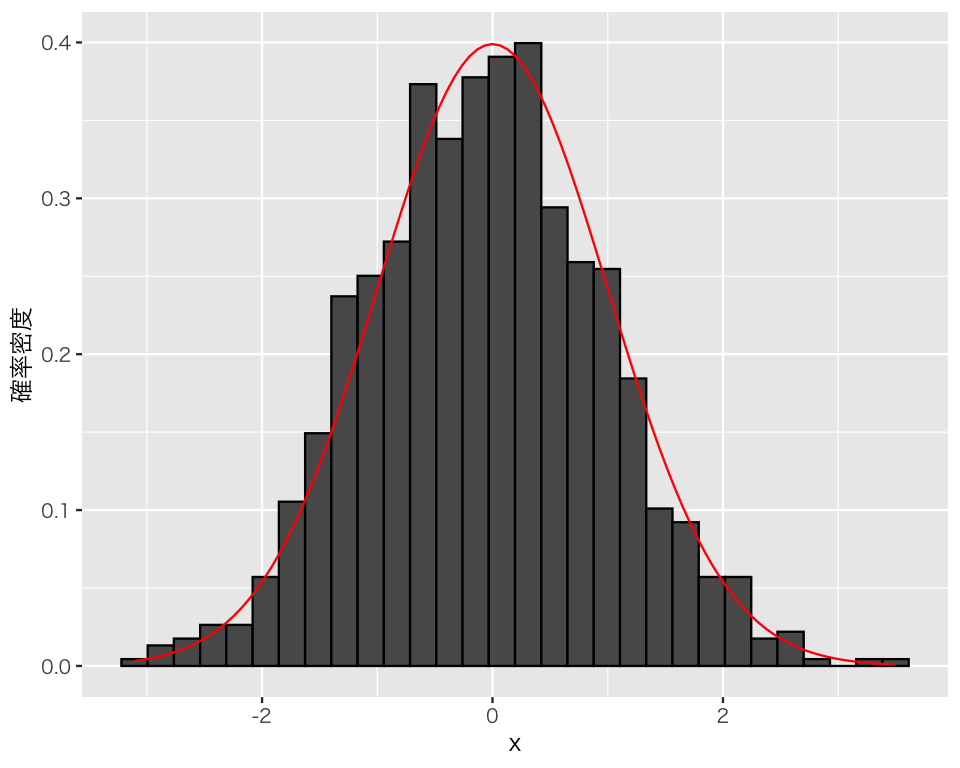
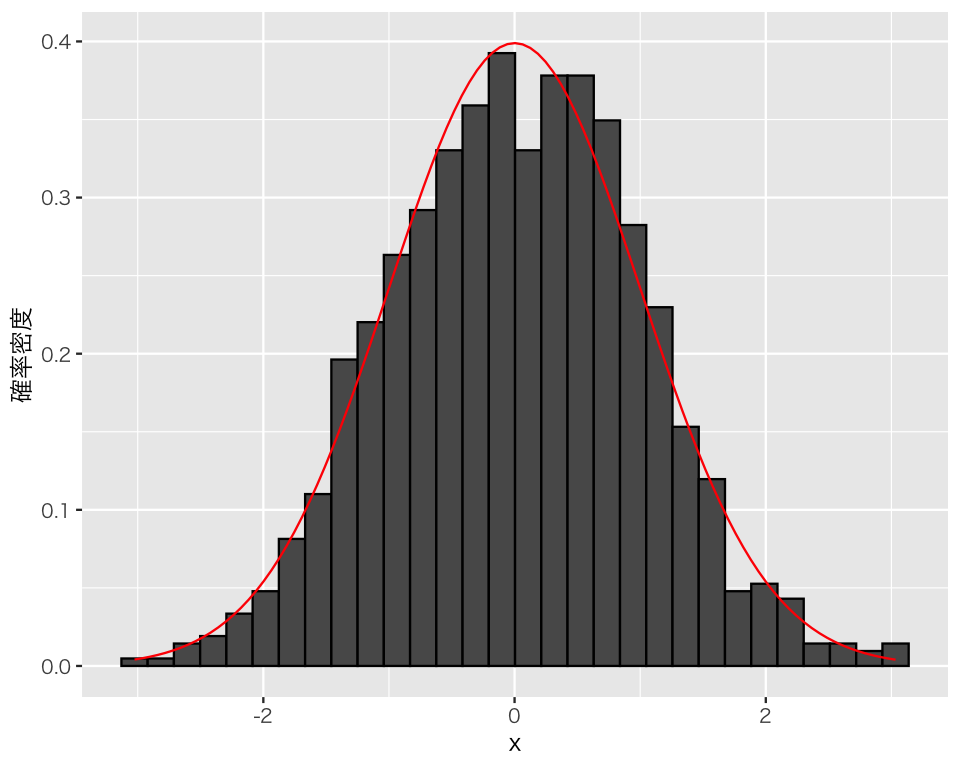
update kut_stat1 for ay2026

diff --git a/docs/stat-dist.html b/docs/stat-dist.html
@@ -333,7 +333,7 @@ X \sim \mbox{Bernoulli}(\theta)
 <div class="cell">
 <div class="sourceCode" id="cb7"><pre class="downlit sourceCode r code-with-copy"><code class="sourceCode R"><span><span class="fu"><a href="https://rdrr.io/r/base/mean.html">mean</a></span><span class="op">(</span><span class="va">x_1</span><span class="op">)</span></span></code><button title="コピーする" class="code-copy-button"><i class="bi"></i></button></pre></div>
 <div class="cell-output cell-output-stdout">
-<pre><code>[1] 0.71</code></pre>
+<pre><code>[1] 0.7</code></pre>
 </div>
 </div>
 <p>期待値である0.7に一致はしていないものの、ある程度近い値をとっている。</p>
@@ -341,7 +341,7 @@ X \sim \mbox{Bernoulli}(\theta)
 <div class="cell">
 <div class="sourceCode" id="cb9"><pre class="downlit sourceCode r code-with-copy"><code class="sourceCode R"><span><span class="fu"><a href="https://rdrr.io/r/stats/cor.html">var</a></span><span class="op">(</span><span class="va">x_1</span><span class="op">)</span></span></code><button title="コピーする" class="code-copy-button"><i class="bi"></i></button></pre></div>
 <div class="cell-output cell-output-stdout">
-<pre><code>[1] 0.2061061</code></pre>
+<pre><code>[1] 0.2102102</code></pre>
 </div>
 </div>
 <p>それなりに近い値が得られていることがわかる。</p>
@@ -377,7 +377,7 @@ X \sim \mbox{Binomial}(n, \theta)
 <div class="cell">
 <div class="sourceCode" id="cb13"><pre class="downlit sourceCode r code-with-copy"><code class="sourceCode R"><span><span class="fu"><a href="https://rdrr.io/r/base/mean.html">mean</a></span><span class="op">(</span><span class="va">x_2</span><span class="op">)</span></span></code><button title="コピーする" class="code-copy-button"><i class="bi"></i></button></pre></div>
 <div class="cell-output cell-output-stdout">
-<pre><code>[1] 3.509</code></pre>
+<pre><code>[1] 3.511</code></pre>
 </div>
 </div>
 <p>期待値である<span class="math inline">\(n\theta = 5\cdot 0.7=0.35\)</span>に一致はしていないものの、ある程度近い値をとっている。</p>
@@ -385,7 +385,7 @@ X \sim \mbox{Binomial}(n, \theta)
 <div class="cell">
 <div class="sourceCode" id="cb15"><pre class="downlit sourceCode r code-with-copy"><code class="sourceCode R"><span><span class="fu"><a href="https://rdrr.io/r/stats/cor.html">var</a></span><span class="op">(</span><span class="va">x_2</span><span class="op">)</span></span></code><button title="コピーする" class="code-copy-button"><i class="bi"></i></button></pre></div>
 <div class="cell-output cell-output-stdout">
-<pre><code>[1] 1.028948</code></pre>
+<pre><code>[1] 1.042922</code></pre>
 </div>
 </div>
 <p>それなりに近い値が得られているが、ややズレいている。</p>
@@ -442,7 +442,7 @@ X \sim \mbox{Normal}(\mu, \sigma)
 <div class="cell">
 <div class="sourceCode" id="cb22"><pre class="downlit sourceCode r code-with-copy"><code class="sourceCode R"><span><span class="fu"><a href="https://rdrr.io/r/base/mean.html">mean</a></span><span class="op">(</span><span class="va">x_3</span><span class="op">)</span></span></code><button title="コピーする" class="code-copy-button"><i class="bi"></i></button></pre></div>
 <div class="cell-output cell-output-stdout">
-<pre><code>[1] 5.094786</code></pre>
+<pre><code>[1] 4.828358</code></pre>
 </div>
 </div>
 <p>期待値である5に一致はしないが、近い値をとっている。</p>
@@ -450,7 +450,7 @@ X \sim \mbox{Normal}(\mu, \sigma)
 <div class="cell">
 <div class="sourceCode" id="cb24"><pre class="downlit sourceCode r code-with-copy"><code class="sourceCode R"><span><span class="fu"><a href="https://rdrr.io/r/stats/sd.html">sd</a></span><span class="op">(</span><span class="va">x_3</span><span class="op">)</span></span></code><button title="コピーする" class="code-copy-button"><i class="bi"></i></button></pre></div>
 <div class="cell-output cell-output-stdout">
-<pre><code>[1] 3.011296</code></pre>
+<pre><code>[1] 3.026114</code></pre>
 </div>
 </div>
 <p>分布の標準偏差である3にほぼ一致する値が得られた。</p>
@@ -458,10 +458,10 @@ X \sim \mbox{Normal}(\mu, \sigma)
 <div class="cell">
 <div class="sourceCode" id="cb26"><pre class="downlit sourceCode r code-with-copy"><code class="sourceCode R"><span><span class="fu"><a href="https://rdrr.io/r/base/sum.html">sum</a></span><span class="op">(</span><span class="va">x_3</span> <span class="op">&gt;</span> <span class="fl">5</span> <span class="op">-</span> <span class="fl">3</span> <span class="op">&amp;</span> <span class="va">x_3</span> <span class="op">&lt;</span> <span class="fl">5</span> <span class="op">+</span> <span class="fl">3</span><span class="op">)</span></span></code><button title="コピーする" class="code-copy-button"><i class="bi"></i></button></pre></div>
 <div class="cell-output cell-output-stdout">
-<pre><code>[1] 695</code></pre>
+<pre><code>[1] 699</code></pre>
 </div>
 </div>
-<p>である。1000個中695個の値が「平均 ± 1標準偏差」の範囲にある、つまり、データの約69.5 %が「平均 ± 1標準偏差」に収まっている。理論的には、この範囲に収まる確率は</p>
+<p>である。1000個中699個の値が「平均 ± 1標準偏差」の範囲にある、つまり、データの約69.9 %が「平均 ± 1標準偏差」に収まっている。理論的には、この範囲に収まる確率は</p>
 <div class="cell">
 <div class="sourceCode" id="cb28"><pre class="downlit sourceCode r code-with-copy"><code class="sourceCode R"><span><span class="fu"><a href="https://rdrr.io/r/stats/Normal.html">pnorm</a></span><span class="op">(</span><span class="fl">5</span> <span class="op">+</span> <span class="fl">3</span>, mean <span class="op">=</span> <span class="fl">5</span>, sd <span class="op">=</span> <span class="fl">3</span><span class="op">)</span> <span class="op">-</span> <span class="fu"><a href="https://rdrr.io/r/stats/Normal.html">pnorm</a></span><span class="op">(</span><span class="fl">5</span> <span class="op">-</span> <span class="fl">3</span>, mean <span class="op">=</span> <span class="fl">5</span>, sd <span class="op">=</span> <span class="fl">3</span><span class="op">)</span></span></code><button title="コピーする" class="code-copy-button"><i class="bi"></i></button></pre></div>
 <div class="cell-output cell-output-stdout">
@@ -473,10 +473,10 @@ X \sim \mbox{Normal}(\mu, \sigma)
 <div class="cell">
 <div class="sourceCode" id="cb30"><pre class="downlit sourceCode r code-with-copy"><code class="sourceCode R"><span><span class="fu"><a href="https://rdrr.io/r/base/sum.html">sum</a></span><span class="op">(</span><span class="va">x_3</span> <span class="op">&gt;</span> <span class="fl">5</span> <span class="op">-</span> <span class="fl">2</span> <span class="op">*</span> <span class="fl">3</span> <span class="op">&amp;</span> <span class="va">x_3</span> <span class="op">&lt;</span> <span class="fl">5</span> <span class="op">+</span> <span class="fl">2</span> <span class="op">*</span> <span class="fl">3</span><span class="op">)</span></span></code><button title="コピーする" class="code-copy-button"><i class="bi"></i></button></pre></div>
 <div class="cell-output cell-output-stdout">
-<pre><code>[1] 949</code></pre>
+<pre><code>[1] 951</code></pre>
 </div>
 </div>
-<p>である。1000個中949個の値が「平均 ± 2標準偏差」の範囲にある、つまり、データの約94.9 %が「平均 ± 2標準偏差」に収まっている。理論的には、この範囲に収まる確率は</p>
+<p>である。1000個中951個の値が「平均 ± 2標準偏差」の範囲にある、つまり、データの約95.1 %が「平均 ± 2標準偏差」に収まっている。理論的には、この範囲に収まる確率は</p>
 <div class="cell">
 <div class="sourceCode" id="cb32"><pre class="downlit sourceCode r code-with-copy"><code class="sourceCode R"><span><span class="fu"><a href="https://rdrr.io/r/stats/Normal.html">pnorm</a></span><span class="op">(</span><span class="fl">5</span> <span class="op">+</span> <span class="fl">2</span> <span class="op">*</span> <span class="fl">3</span>, mean <span class="op">=</span> <span class="fl">5</span>, sd <span class="op">=</span> <span class="fl">3</span><span class="op">)</span> <span class="op">-</span> <span class="fu"><a href="https://rdrr.io/r/stats/Normal.html">pnorm</a></span><span class="op">(</span><span class="fl">5</span> <span class="op">-</span> <span class="fl">2</span> <span class="op">*</span> <span class="fl">3</span>, mean <span class="op">=</span> <span class="fl">5</span>, sd <span class="op">=</span> <span class="fl">3</span><span class="op">)</span></span></code><button title="コピーする" class="code-copy-button"><i class="bi"></i></button></pre></div>
 <div class="cell-output cell-output-stdout">
@@ -534,7 +534,7 @@ X \sim \mbox{Normal}(0, 1)
 <div class="cell">
 <div class="sourceCode" id="cb39"><pre class="downlit sourceCode r code-with-copy"><code class="sourceCode R"><span><span class="fu"><a href="https://rdrr.io/r/base/mean.html">mean</a></span><span class="op">(</span><span class="va">x_4</span><span class="op">)</span></span></code><button title="コピーする" class="code-copy-button"><i class="bi"></i></button></pre></div>
 <div class="cell-output cell-output-stdout">
-<pre><code>[1] -0.06339472</code></pre>
+<pre><code>[1] 0.01400403</code></pre>
 </div>
 </div>
 <p>期待値である0に一致はしないが、近い値をとっている。</p>
@@ -542,7 +542,7 @@ X \sim \mbox{Normal}(0, 1)
 <div class="cell">
 <div class="sourceCode" id="cb41"><pre class="downlit sourceCode r code-with-copy"><code class="sourceCode R"><span><span class="fu"><a href="https://rdrr.io/r/stats/sd.html">sd</a></span><span class="op">(</span><span class="va">x_4</span><span class="op">)</span></span></code><button title="コピーする" class="code-copy-button"><i class="bi"></i></button></pre></div>
 <div class="cell-output cell-output-stdout">
-<pre><code>[1] 1.019742</code></pre>
+<pre><code>[1] 0.9930937</code></pre>
 </div>
 </div>
 <p>分布の標準偏差である1にほぼ一致する値が得られた。</p>
@@ -550,10 +550,10 @@ X \sim \mbox{Normal}(0, 1)
 <div class="cell">
 <div class="sourceCode" id="cb43"><pre class="downlit sourceCode r code-with-copy"><code class="sourceCode R"><span><span class="fu"><a href="https://rdrr.io/r/base/sum.html">sum</a></span><span class="op">(</span><span class="va">x_4</span> <span class="op">&gt;</span> <span class="op">-</span><span class="fl">1</span> <span class="op">&amp;</span> <span class="va">x_4</span> <span class="op">&lt;</span> <span class="fl">1</span><span class="op">)</span></span></code><button title="コピーする" class="code-copy-button"><i class="bi"></i></button></pre></div>
 <div class="cell-output cell-output-stdout">
-<pre><code>[1] 665</code></pre>
+<pre><code>[1] 683</code></pre>
 </div>
 </div>
-<p>である。1000個中665個の値が<span class="math inline">\(-1 &lt; X &lt; 1\)</span>の範囲にある、つまり、データの約66.5 %が<span class="math inline">\(-1 &lt; X &lt; 1\)</span>に収まっている。理論的には、この範囲に収まる確率は</p>
+<p>である。1000個中683個の値が<span class="math inline">\(-1 &lt; X &lt; 1\)</span>の範囲にある、つまり、データの約68.3 %が<span class="math inline">\(-1 &lt; X &lt; 1\)</span>に収まっている。理論的には、この範囲に収まる確率は</p>
 <div class="cell">
 <div class="sourceCode" id="cb45"><pre class="downlit sourceCode r code-with-copy"><code class="sourceCode R"><span><span class="fu"><a href="https://rdrr.io/r/stats/Normal.html">pnorm</a></span><span class="op">(</span><span class="fl">1</span><span class="op">)</span> <span class="op">-</span> <span class="fu"><a href="https://rdrr.io/r/stats/Normal.html">pnorm</a></span><span class="op">(</span><span class="op">-</span><span class="fl">1</span><span class="op">)</span></span></code><button title="コピーする" class="code-copy-button"><i class="bi"></i></button></pre></div>
 <div class="cell-output cell-output-stdout">
@@ -565,10 +565,10 @@ X \sim \mbox{Normal}(0, 1)
 <div class="cell">
 <div class="sourceCode" id="cb47"><pre class="downlit sourceCode r code-with-copy"><code class="sourceCode R"><span><span class="fu"><a href="https://rdrr.io/r/base/sum.html">sum</a></span><span class="op">(</span><span class="va">x_4</span> <span class="op">&gt;</span> <span class="op">-</span><span class="fl">2</span> <span class="op">&amp;</span> <span class="va">x_4</span> <span class="op">&lt;</span> <span class="fl">2</span><span class="op">)</span></span></code><button title="コピーする" class="code-copy-button"><i class="bi"></i></button></pre></div>
 <div class="cell-output cell-output-stdout">
-<pre><code>[1] 948</code></pre>
+<pre><code>[1] 958</code></pre>
 </div>
 </div>
-<p>である。1000個中948個の値が<span class="math inline">\(-2 &lt; X &lt; 2\)</span>の範囲にある、つまり、データの約94.8 %が<span class="math inline">\(-2 &lt; X &lt; 2\)</span>に収まっている。理論的には、この範囲に収まる確率は</p>
+<p>である。1000個中958個の値が<span class="math inline">\(-2 &lt; X &lt; 2\)</span>の範囲にある、つまり、データの約95.8 %が<span class="math inline">\(-2 &lt; X &lt; 2\)</span>に収まっている。理論的には、この範囲に収まる確率は</p>
 <div class="cell">
 <div class="sourceCode" id="cb49"><pre class="downlit sourceCode r code-with-copy"><code class="sourceCode R"><span><span class="fu"><a href="https://rdrr.io/r/stats/Normal.html">pnorm</a></span><span class="op">(</span><span class="fl">2</span><span class="op">)</span> <span class="op">-</span> <span class="fu"><a href="https://rdrr.io/r/stats/Normal.html">pnorm</a></span><span class="op">(</span><span class="op">-</span><span class="fl">2</span><span class="op">)</span></span></code><button title="コピーする" class="code-copy-button"><i class="bi"></i></button></pre></div>
 <div class="cell-output cell-output-stdout">

diff --git a/docs/rv-n-dist.html b/docs/rv-n-dist.html
@@ -500,7 +500,7 @@ X \sim \mbox{Binomial}(N, \theta)
 <div class="cell">
 <div class="sourceCode" id="cb21"><pre class="downlit sourceCode r code-with-copy"><code class="sourceCode R"><span><span class="fu"><a href="https://rdrr.io/r/stats/Binomial.html">rbinom</a></span><span class="op">(</span>n <span class="op">=</span> <span class="fl">8</span>, size <span class="op">=</span> <span class="fl">10</span>, prob <span class="op">=</span> <span class="fl">0.4</span><span class="op">)</span></span></code><button title="コピーする" class="code-copy-button"><i class="bi"></i></button></pre></div>
 <div class="cell-output cell-output-stdout">
-<pre><code>[1] 6 5 2 6 6 4 5 5</code></pre>
+<pre><code>[1] 5 7 4 6 3 7 4 5</code></pre>
 </div>
 </div>
 <p>結果として、8つの数字が表示されるが、それぞれの数字が、1回ごとの実験（コインを10回投げる）で表が何回出たかを表している。</p>
@@ -521,7 +521,7 @@ Warning
 <div class="cell">
 <div class="sourceCode" id="cb23"><pre class="downlit sourceCode r code-with-copy"><code class="sourceCode R"><span><span class="fu"><a href="https://rdrr.io/r/stats/Binomial.html">rbinom</a></span><span class="op">(</span>n <span class="op">=</span> <span class="fl">8</span>, size <span class="op">=</span> <span class="fl">10</span>, prob <span class="op">=</span> <span class="fl">0.4</span><span class="op">)</span></span></code><button title="コピーする" class="code-copy-button"><i class="bi"></i></button></pre></div>
 <div class="cell-output cell-output-stdout">
-<pre><code>[1] 4 2 4 4 2 8 7 0</code></pre>
+<pre><code>[1] 4 6 6 3 5 4 6 1</code></pre>
 </div>
 </div>
 <p>表が出る確率が0.5のコインを使って、1回のコイン投げ実験を1回だけ実行するには、</p>
@@ -541,7 +541,7 @@ Warning
 <div class="cell">
 <div class="sourceCode" id="cb29"><pre class="downlit sourceCode r code-with-copy"><code class="sourceCode R"><span><span class="fu"><a href="https://rdrr.io/r/stats/Binomial.html">rbinom</a></span><span class="op">(</span>n <span class="op">=</span> <span class="fl">1</span>, size <span class="op">=</span> <span class="fl">1</span>, prob <span class="op">=</span> <span class="fl">0.5</span><span class="op">)</span></span></code><button title="コピーする" class="code-copy-button"><i class="bi"></i></button></pre></div>
 <div class="cell-output cell-output-stdout">
-<pre><code>[1] 1</code></pre>
+<pre><code>[1] 0</code></pre>
 </div>
 </div>
 <div class="cell">
@@ -553,20 +553,20 @@ Warning
 <div class="cell">
 <div class="sourceCode" id="cb33"><pre class="downlit sourceCode r code-with-copy"><code class="sourceCode R"><span><span class="fu"><a href="https://rdrr.io/r/stats/Binomial.html">rbinom</a></span><span class="op">(</span>n <span class="op">=</span> <span class="fl">1</span>, size <span class="op">=</span> <span class="fl">1</span>, prob <span class="op">=</span> <span class="fl">0.5</span><span class="op">)</span></span></code><button title="コピーする" class="code-copy-button"><i class="bi"></i></button></pre></div>
 <div class="cell-output cell-output-stdout">
-<pre><code>[1] 0</code></pre>
+<pre><code>[1] 1</code></pre>
 </div>
 </div>
 <div class="cell">
 <div class="sourceCode" id="cb35"><pre class="downlit sourceCode r code-with-copy"><code class="sourceCode R"><span><span class="fu"><a href="https://rdrr.io/r/stats/Binomial.html">rbinom</a></span><span class="op">(</span>n <span class="op">=</span> <span class="fl">1</span>, size <span class="op">=</span> <span class="fl">1</span>, prob <span class="op">=</span> <span class="fl">0.5</span><span class="op">)</span></span></code><button title="コピーする" class="code-copy-button"><i class="bi"></i></button></pre></div>
 <div class="cell-output cell-output-stdout">
-<pre><code>[1] 0</code></pre>
+<pre><code>[1] 1</code></pre>
 </div>
 </div>
 <p>表が出る確率が0.5のコインを使って、1回のコイン投げ実験を10回まとめて実行するには、次のようにする。</p>
 <div class="cell">
 <div class="sourceCode" id="cb37"><pre class="downlit sourceCode r code-with-copy"><code class="sourceCode R"><span><span class="fu"><a href="https://rdrr.io/r/stats/Binomial.html">rbinom</a></span><span class="op">(</span>n <span class="op">=</span> <span class="fl">10</span>, size <span class="op">=</span> <span class="fl">1</span>, prob <span class="op">=</span> <span class="fl">0.5</span><span class="op">)</span></span></code><button title="コピーする" class="code-copy-button"><i class="bi"></i></button></pre></div>
 <div class="cell-output cell-output-stdout">
-<pre><code> [1] 1 1 0 0 0 1 1 1 1 0</code></pre>
+<pre><code> [1] 0 0 1 1 0 1 0 1 1 0</code></pre>
 </div>
 </div>
 <p>確率変数 <span class="math inline">\(X\)</span> が、<span class="math inline">\(X \sim \mbox{Binomial}(10, 0.3)\)</span> のとき、確率変数<span class="math inline">\(X\)</span>をランダムに1,000個生成してみよう。</p>
@@ -695,11 +695,11 @@ X \sim \mbox{Normal}(\mu, \sigma)
 <div class="cell">
 <div class="sourceCode" id="cb55"><pre class="downlit sourceCode r code-with-copy"><code class="sourceCode R"><span><span class="fu"><a href="https://rdrr.io/r/base/mean.html">mean</a></span><span class="op">(</span><span class="va">b1</span><span class="op">)</span></span></code><button title="コピーする" class="code-copy-button"><i class="bi"></i></button></pre></div>
 <div class="cell-output cell-output-stdout">
-<pre><code>[1] -0.229083</code></pre>
+<pre><code>[1] -0.07014281</code></pre>
 </div>
 <div class="sourceCode" id="cb57"><pre class="downlit sourceCode r code-with-copy"><code class="sourceCode R"><span><span class="fu"><a href="https://rdrr.io/r/stats/sd.html">sd</a></span><span class="op">(</span><span class="va">b1</span><span class="op">)</span></span></code><button title="コピーする" class="code-copy-button"><i class="bi"></i></button></pre></div>
 <div class="cell-output cell-output-stdout">
-<pre><code>[1] 1.05541</code></pre>
+<pre><code>[1] 0.91183</code></pre>
 </div>
 </div>
 <p>乱数の元となった確率分布の平均値、標準偏差と比べると、どんなことが言えるだろうか？</p>
@@ -723,11 +723,11 @@ X \sim \mbox{Normal}(\mu, \sigma)
 <div class="cell">
 <div class="sourceCode" id="cb60"><pre class="downlit sourceCode r code-with-copy"><code class="sourceCode R"><span><span class="fu"><a href="https://rdrr.io/r/base/mean.html">mean</a></span><span class="op">(</span><span class="va">b2</span><span class="op">)</span></span></code><button title="コピーする" class="code-copy-button"><i class="bi"></i></button></pre></div>
 <div class="cell-output cell-output-stdout">
-<pre><code>[1] -0.014112</code></pre>
+<pre><code>[1] 5.644029e-06</code></pre>
 </div>
 <div class="sourceCode" id="cb62"><pre class="downlit sourceCode r code-with-copy"><code class="sourceCode R"><span><span class="fu"><a href="https://rdrr.io/r/stats/sd.html">sd</a></span><span class="op">(</span><span class="va">b2</span><span class="op">)</span></span></code><button title="コピーする" class="code-copy-button"><i class="bi"></i></button></pre></div>
 <div class="cell-output cell-output-stdout">
-<pre><code>[1] 1.001269</code></pre>
+<pre><code>[1] 0.9969611</code></pre>
 </div>
 </div>
 <p>乱数の元となった確率分布の平均値、標準偏差と比べると、どんなことが言えるだろうか？</p>
@@ -766,11 +766,11 @@ X \sim \mbox{Normal}(\mu, \sigma)
 <div class="cell">
 <div class="sourceCode" id="cb67"><pre class="downlit sourceCode r code-with-copy"><code class="sourceCode R"><span><span class="fu"><a href="https://rdrr.io/r/base/mean.html">mean</a></span><span class="op">(</span><span class="va">b3</span><span class="op">)</span></span></code><button title="コピーする" class="code-copy-button"><i class="bi"></i></button></pre></div>
 <div class="cell-output cell-output-stdout">
-<pre><code>[1] 10.00412</code></pre>
+<pre><code>[1] 10.00175</code></pre>
 </div>
 <div class="sourceCode" id="cb69"><pre class="downlit sourceCode r code-with-copy"><code class="sourceCode R"><span><span class="fu"><a href="https://rdrr.io/r/stats/sd.html">sd</a></span><span class="op">(</span><span class="va">b3</span><span class="op">)</span></span></code><button title="コピーする" class="code-copy-button"><i class="bi"></i></button></pre></div>
 <div class="cell-output cell-output-stdout">
-<pre><code>[1] 2.033068</code></pre>
+<pre><code>[1] 2.009597</code></pre>
 </div>
 </div>
 <p>乱数の元となった確率分布の平均値、標準偏差と比べると、どんなことが言えるだろうか？</p>

diff --git a/docs/discrete-distributions.html b/docs/discrete-distributions.html
@@ -320,11 +320,11 @@ window.Quarto = {
 <div class="cell">
 <div class="sourceCode" id="cb10"><pre class="downlit sourceCode r code-with-copy"><code class="sourceCode R"><span><span class="fu"><a href="https://rdrr.io/r/base/sample.html">sample</a></span><span class="op">(</span><span class="va">coin</span>, size <span class="op">=</span> <span class="fl">1</span><span class="op">)</span></span></code><button title="コピーする" class="code-copy-button"><i class="bi"></i></button></pre></div>
 <div class="cell-output cell-output-stdout">
-<pre><code>[1] "表"</code></pre>
+<pre><code>[1] "裏"</code></pre>
 </div>
 <div class="sourceCode" id="cb12"><pre class="downlit sourceCode r code-with-copy"><code class="sourceCode R"><span><span class="fu"><a href="https://rdrr.io/r/base/sample.html">sample</a></span><span class="op">(</span><span class="va">coin</span>, size <span class="op">=</span> <span class="fl">1</span><span class="op">)</span></span></code><button title="コピーする" class="code-copy-button"><i class="bi"></i></button></pre></div>
 <div class="cell-output cell-output-stdout">
-<pre><code>[1] "裏"</code></pre>
+<pre><code>[1] "表"</code></pre>
 </div>
 <div class="sourceCode" id="cb14"><pre class="downlit sourceCode r code-with-copy"><code class="sourceCode R"><span><span class="fu"><a href="https://rdrr.io/r/base/sample.html">sample</a></span><span class="op">(</span><span class="va">coin</span>, size <span class="op">=</span> <span class="fl">1</span><span class="op">)</span></span></code><button title="コピーする" class="code-copy-button"><i class="bi"></i></button></pre></div>
 <div class="cell-output cell-output-stdout">
@@ -336,7 +336,7 @@ window.Quarto = {
 </div>
 <div class="sourceCode" id="cb18"><pre class="downlit sourceCode r code-with-copy"><code class="sourceCode R"><span><span class="fu"><a href="https://rdrr.io/r/base/sample.html">sample</a></span><span class="op">(</span><span class="va">coin</span>, size <span class="op">=</span> <span class="fl">1</span><span class="op">)</span></span></code><button title="コピーする" class="code-copy-button"><i class="bi"></i></button></pre></div>
 <div class="cell-output cell-output-stdout">
-<pre><code>[1] "裏"</code></pre>
+<pre><code>[1] "表"</code></pre>
 </div>
 </div>
 <p>（実際にコインを投げているのと同じように）結果は<strong>ランダムに</strong>決まるので、上で得られる結果は人によって異なる。あなたの実行結果は、この資料やあなたの隣の席の人の結果とは異なるはずだ。</p>
@@ -344,14 +344,14 @@ window.Quarto = {
 <div class="cell">
 <div class="sourceCode" id="cb20"><pre class="downlit sourceCode r code-with-copy"><code class="sourceCode R"><span><span class="fu"><a href="https://rdrr.io/r/base/sample.html">sample</a></span><span class="op">(</span><span class="va">coin</span>, size <span class="op">=</span> <span class="fl">2</span><span class="op">)</span></span></code><button title="コピーする" class="code-copy-button"><i class="bi"></i></button></pre></div>
 <div class="cell-output cell-output-stdout">
-<pre><code>[1] "裏" "表"</code></pre>
+<pre><code>[1] "表" "裏"</code></pre>
 </div>
 </div>
 <p>もう一度やってみよう。</p>
 <div class="cell">
 <div class="sourceCode" id="cb22"><pre class="downlit sourceCode r code-with-copy"><code class="sourceCode R"><span><span class="fu"><a href="https://rdrr.io/r/base/sample.html">sample</a></span><span class="op">(</span><span class="va">coin</span><span class="op">)</span></span></code><button title="コピーする" class="code-copy-button"><i class="bi"></i></button></pre></div>
 <div class="cell-output cell-output-stdout">
-<pre><code>[1] "表" "裏"</code></pre>
+<pre><code>[1] "裏" "表"</code></pre>
 </div>
 </div>
 <p>さらに、もう一度やってみよう。</p>
@@ -375,7 +375,7 @@ window.Quarto = {
 <div class="cell">
 <div class="sourceCode" id="cb28"><pre class="downlit sourceCode r code-with-copy"><code class="sourceCode R"><span><span class="fu"><a href="https://rdrr.io/r/base/sample.html">sample</a></span><span class="op">(</span><span class="va">coin</span>, size <span class="op">=</span> <span class="fl">5</span>, replace <span class="op">=</span> <span class="cn">TRUE</span><span class="op">)</span></span></code><button title="コピーする" class="code-copy-button"><i class="bi"></i></button></pre></div>
 <div class="cell-output cell-output-stdout">
-<pre><code>[1] "表" "表" "裏" "表" "裏"</code></pre>
+<pre><code>[1] "表" "裏" "表" "裏" "表"</code></pre>
 </div>
 </div>
 <p>これでコイン投げを複数回実行できる。</p>
@@ -384,7 +384,7 @@ window.Quarto = {
 <div class="sourceCode" id="cb30"><pre class="downlit sourceCode r code-with-copy"><code class="sourceCode R"><span><span class="va">coin10</span> <span class="op">&lt;-</span> <span class="fu"><a href="https://rdrr.io/r/base/sample.html">sample</a></span><span class="op">(</span><span class="va">coin</span>, size <span class="op">=</span> <span class="fl">10</span>, replace <span class="op">=</span> <span class="cn">TRUE</span><span class="op">)</span> <span class="op">|&gt;</span> </span>
 <span>  <span class="fu"><a href="https://rdrr.io/r/base/print.html">print</a></span><span class="op">(</span><span class="op">)</span></span></code><button title="コピーする" class="code-copy-button"><i class="bi"></i></button></pre></div>
 <div class="cell-output cell-output-stdout">
-<pre><code> [1] "表" "裏" "表" "表" "表" "裏" "表" "表" "表" "表"</code></pre>
+<pre><code> [1] "表" "裏" "裏" "表" "表" "裏" "裏" "表" "裏" "裏"</code></pre>
 </div>
 </div>
 <p>10回のうち、表は何回出ただろうか？Rを使って数えてみよう。数えるために、以下の方法をとる。</p>
@@ -426,7 +426,7 @@ Warning
 <div class="cell">
 <div class="sourceCode" id="cb38"><pre class="downlit sourceCode r code-with-copy"><code class="sourceCode R"><span><span class="va">coin10</span> <span class="op">==</span> <span class="st">"表"</span></span></code><button title="コピーする" class="code-copy-button"><i class="bi"></i></button></pre></div>
 <div class="cell-output cell-output-stdout">
-<pre><code> [1]  TRUE FALSE  TRUE  TRUE  TRUE FALSE  TRUE  TRUE  TRUE  TRUE</code></pre>
+<pre><code> [1]  TRUE FALSE FALSE  TRUE  TRUE FALSE FALSE  TRUE FALSE FALSE</code></pre>
 </div>
 </div>
 <p>このように、各回について、表 (<code>TRUE</code>) か裏 (<code>FALSE</code>) かを教えてくれる。</p>
@@ -434,10 +434,10 @@ Warning
 <div class="cell">
 <div class="sourceCode" id="cb40"><pre class="downlit sourceCode r code-with-copy"><code class="sourceCode R"><span><span class="fu"><a href="https://rdrr.io/r/base/sum.html">sum</a></span><span class="op">(</span><span class="va">coin10</span> <span class="op">==</span> <span class="st">"表"</span><span class="op">)</span></span></code><button title="コピーする" class="code-copy-button"><i class="bi"></i></button></pre></div>
 <div class="cell-output cell-output-stdout">
-<pre><code>[1] 8</code></pre>
+<pre><code>[1] 4</code></pre>
 </div>
 </div>
-<p>表は10回中8回だったことがわかる。</p>
+<p>表は10回中4回だったことがわかる。</p>
 <p>分布について考えるために、コイン投げを100回行ってみよう。</p>
 <div class="cell">
 <div class="sourceCode" id="cb42"><pre class="downlit sourceCode r code-with-copy"><code class="sourceCode R"><span><span class="va">coin100</span> <span class="op">&lt;-</span> <span class="fu"><a href="https://rdrr.io/r/base/sample.html">sample</a></span><span class="op">(</span><span class="va">coin</span>, size <span class="op">=</span> <span class="fl">100</span>, replace <span class="op">=</span> <span class="cn">TRUE</span><span class="op">)</span></span></code><button title="コピーする" class="code-copy-button"><i class="bi"></i></button></pre></div>

diff --git a/docs/intro-to-ggplot2.html b/docs/intro-to-ggplot2.html
@@ -500,9 +500,9 @@ $ y &lt;int&gt; 100, 99, 98, 97, 96, 95, 94, 93, 92, 91, 90, 89, 88, 87, 86, 85,
 <div class="cell-output cell-output-stdout">
 <pre><code>Rows: 100
 Columns: 3
-$ v1 &lt;dbl&gt; -3.7544576, 2.5152141, -0.5893088, -6.9414626, -5.2315748, -0.19732…
-$ v2 &lt;dbl&gt; -0.75945523, -9.19891389, 0.29795497, -12.08748201, -4.92912838, -5…
-$ v3 &lt;dbl&gt; -1.48307783, -0.12709646, 1.50840200, -0.03114965, -0.07098958, -1.…</code></pre>
+$ v1 &lt;dbl&gt; 0.1577489, -1.0677988, -3.9767539, -2.6751117, -5.5679975, 7.052459…
+$ v2 &lt;dbl&gt; -4.0750738, -12.4126648, 4.7210636, -7.6465108, -4.6640525, -5.9406…
+$ v3 &lt;dbl&gt; 0.75924705, 0.01782942, 0.72178434, 0.58510113, 0.16956017, -0.1044…</code></pre>
 </div>
 </div>
 <p><code>v1</code>, <code>v2</code>, <code>v3</code> という3つの変数があり、それぞれが <code>&lt;dbl&gt;</code> すなわち実数型であることがわかる。このデータフレームは100行3列である。</p>

diff --git a/docs/descriptive-stat.html b/docs/descriptive-stat.html
@@ -292,7 +292,7 @@ window.Quarto = {
 <span>          <span class="st">"miniUI"</span>,</span>
 <span>          <span class="st">"DT"</span>,</span>
 <span>          <span class="st">"patchwork"</span>,</span>
-<span>          <span class="st">"remotes"</span><span class="op">)</span></span>
+<span>          <span class="st">"pak"</span><span class="op">)</span></span>
 <span><span class="fu"><a href="https://rdrr.io/r/utils/install.packages.html">install.packages</a></span><span class="op">(</span><span class="va">pkgs</span><span class="op">)</span></span></code><button title="コピーする" class="code-copy-button"><i class="bi"></i></button></pre></div>
 </div>
 <p>次に、この授業で頻繁に（ほぼ毎回）使う、<strong>tidyverse</strong>パッケージを使ってみよう。</p>

diff --git a/docs/index.html b/docs/index.html
@@ -372,6 +372,7 @@ Warning
 <p>各ページは（パッケージのインストールとデータファイルの入手を除き）独立なので、ページ単位で実行することができる。</p>
 </div>
 </div>
+<p>（2026年度版：2026年4月8日に改訂）</p>
 
 
 </section>
